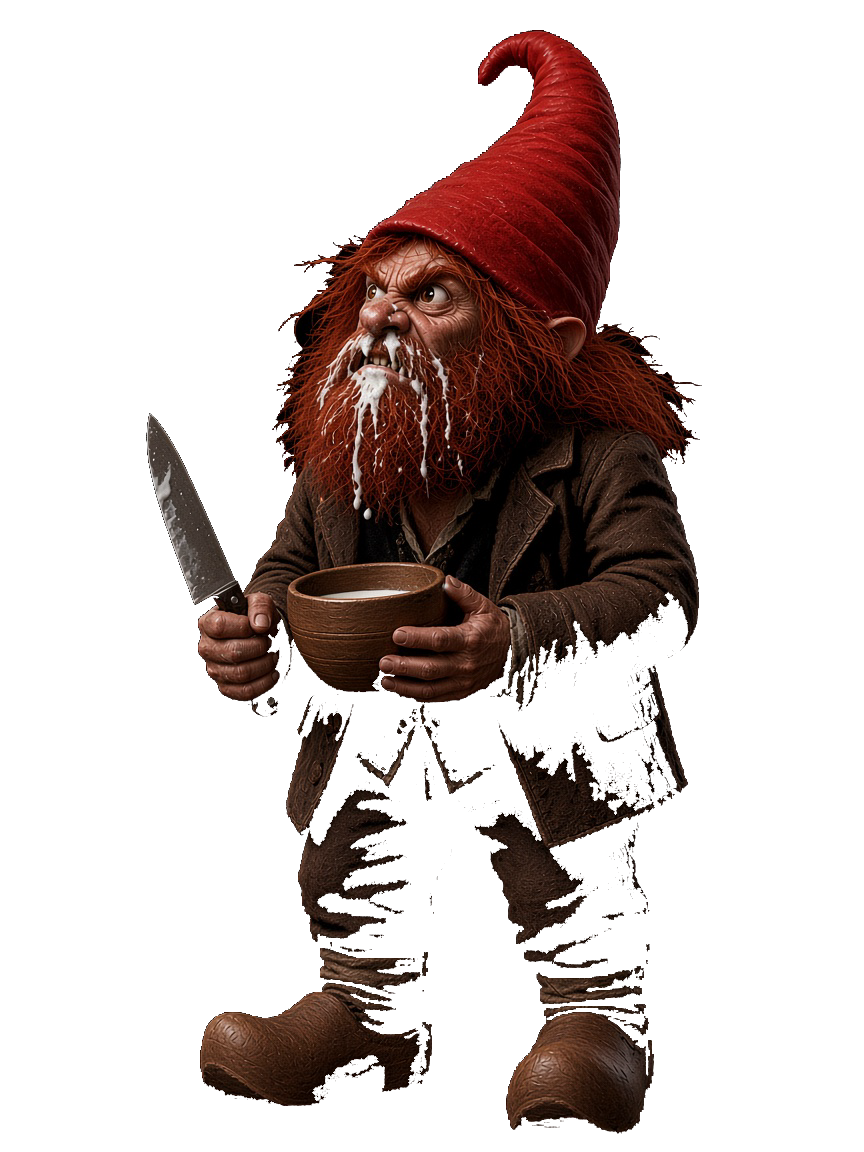
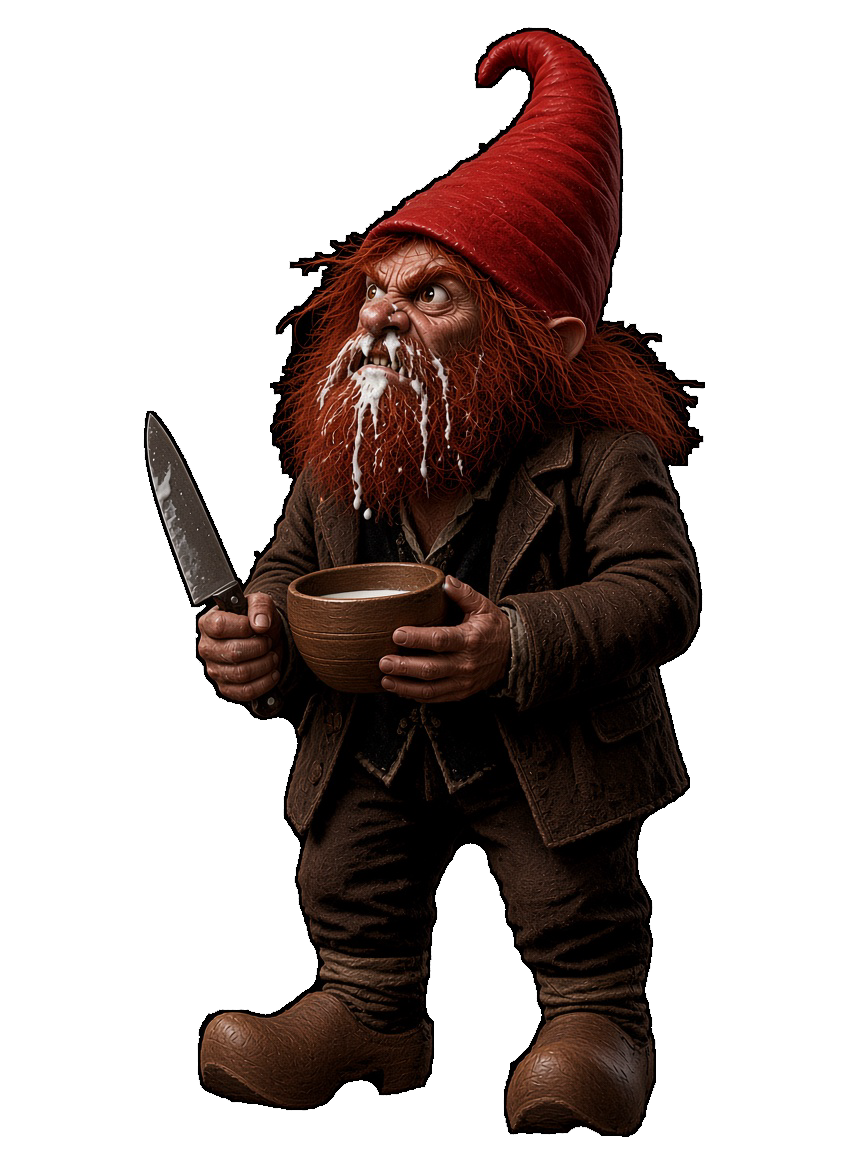
コボルドの暗い服を透過で消さない。
背景の黒だけを抜き、ズボンとひげは残す。

diff --git a/index.html b/index.html
@@ -9615,6 +9615,7 @@
       諸刃の剣: "card-double-edge-v7.jpg?v=1",
       自信過剰: "card-pride-v4.jpg?v=2",
       達人の間合い: "card-deep-focus.jpg?v=1",
+      超集中: "card-ultra-focus-v6.jpg?v=1",
       シールドアタック: "card-shield-attack.jpg?v=2",
       集中: "card-focus.jpg?v=1",
       頭突き: "card-headbutt.jpg?v=1",
@@ -9766,7 +9767,7 @@
       },
       {
         name: "コボルド",
-        image: "enemy-kobold.png?v=5",
+        image: "enemy-kobold.png?v=6",
         tier: 1,
         rank: "雑魚",
         stature: "small",
@@ -10935,7 +10936,7 @@
     const FOE_INK = {
       "enemy-slime.png": { w: 864, h: 1152, top: 88, bottom: 64, left: 29, right: 857 },
       "enemy-goblin.png": { w: 864, h: 1152, top: 20, bottom: 38, left: 15, right: 825 },
-      "enemy-kobold.png": { w: 864, h: 1152, top: 30, bottom: 18, left: 146, right: 701 },
+      "enemy-kobold.png": { w: 864, h: 1152, top: 27, bottom: 15, left: 144, right: 704 },
       "enemy-minotaur.png": { w: 864, h: 1152, top: 50, bottom: 75, left: 67, right: 853 },
       "enemy-dragon.png": { w: 864, h: 1152, top: 120, bottom: 150, left: 27, right: 863 },
       "enemy-troll.png": { w: 864, h: 1152, top: 64, bottom: 29, left: 27, right: 863 },
@@ -16404,7 +16405,7 @@
             <div class="ref-grid">
               ${sheetFig("enemy-slime.png?v=9", "スライム", "enemy-ref")}
               ${sheetFig("enemy-goblin.png?v=10", "ゴブリン", "enemy-ref")}
-              ${sheetFig("enemy-kobold.png?v=5", "コボルド", "enemy-ref")}
+              ${sheetFig("enemy-kobold.png?v=6", "コボルド", "enemy-ref")}
               ${sheetFig("enemy-troll.png?v=4", "トロール", "enemy-ref")}
               ${sheetFig("enemy-minotaur.png?v=11", "ミノタウロス", "enemy-ref")}
               ${sheetFig("enemy-dragon.png?v=7", "ちびドラゴン", "enemy-ref")}
@@ -16415,9 +16416,6 @@
               ${sheetFig("enemy-gargoyle.png?v=1", "ガーゴイル", "enemy-ref")}
               ${sheetFig("enemy-merfolk.png?v=1", "マーフォーク", "enemy-ref")}
             </div>
-            <h3>カードスタイル</h3>
-            <p class="album-meta">同じ形の棘。銅・銀・金・黒と、赤・青・緑・黄・白・紫・紺。位置は一致</p>
-            <div class="ref-grid blank-grid">${CARD_STYLE.map((item) => sheetFig(item[2], item[1], "style-master")).join("")}</div>
             <h3>カード（画像待ち）</h3>
             <p class="album-meta">絵柄データが空のカード。枠だけ残す。あとから絵をはめる。</p>
             <div class="ref-grid">
@@ -16487,6 +16485,9 @@
             </div>
             <h3>タイトル</h3>
             ${sheetBanner("title-key.jpg?v=2", "タイトル", "左が戦士、右がモンスター軍団。")}
+            <h3>カードスタイル</h3>
+            <p class="album-meta">同じ形の棘。銅・銀・金・黒と、赤・青・緑・黄・白・紫・紺。位置は一致</p>
+            <div class="ref-grid blank-grid">${CARD_STYLE.map((item) => sheetFig(item[2], item[1], "style-master")).join("")}</div>
           </div>
           ${sheetZoomSide()}
         </div>`;
